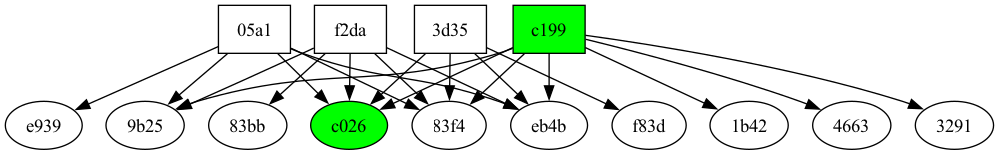
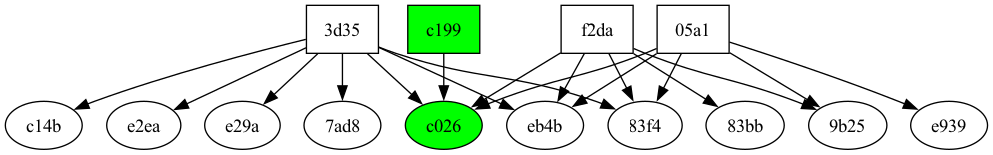
changes

diff --git a/SourceCode/PythonFiles/TerminalOutput/app.py b/SourceCode/PythonFiles/TerminalOutput/app.py
@@ -7,7 +7,8 @@ from plot_reader_time import user_reader_time
 from helper_functions import create_histogram
 from collections import Counter
 from plot_countries import plot_countries, plot_continents
-from also_likes import also_likes
+from also_likes import also_likes, generate_graph
+from task7 import run_gui
 
 def handle_task_2a(data, doc_uuid):
     plot_countries(data, doc_uuid)
@@ -42,8 +43,8 @@ def handle_task_4(data):
     print("=======================================\n\n")
 
 
-def handle_task_5d(data, doc_uuid, visitor_uuid = None, sorting_function=None):
-    likes = also_likes(data, doc_uuid, visitor_uuid = None, sorting_function=None)
+def handle_task_5d(data, doc_uuid, visitor_uuid):
+    likes = also_likes(data, doc_uuid, visitor_uuid, sorting_function=None)
     print("\n\n==============================================")
     print("=   Top 10 Documents also Read by The Visitors   =")
     print("==================================================")
@@ -54,11 +55,13 @@ def handle_task_5d(data, doc_uuid, visitor_uuid = None, sorting_function=None):
     print("==================================================\n\n")
 
 
-def handle_task_6():
+def handle_task_6(data, doc_uuid, visitor_uuid, sorting_function=None):
     print('Task 6')
+    generate_graph(data, doc_uuid, visitor_uuid, sorting_function)
 
-def handle_task_7():
+def handle_task_7(data):
     print('Task 7')
+    run_gui(handle_tasks, data)    
 
 def handle_file(file_name):
     new_file_name = None
@@ -80,7 +83,7 @@ def handle_file(file_name):
         return None
     
 
-def handle_tasks(task_id = None, data = None, user_uuid = None, doc_uuid = None):
+def handle_tasks(task_id = None, data = handle_file('issuu_cw2_train'), visitor_uuid = None, doc_uuid = None):
     if task_id == '2a':
         handle_task_2a(data, doc_uuid)
     elif task_id == '2b':
@@ -92,11 +95,11 @@ def handle_tasks(task_id = None, data = None, user_uuid = None, doc_uuid = None)
     elif task_id == '4':
         handle_task_4(data)
     elif task_id == '5d':
-        handle_task_5d(data, doc_uuid, visitor_uuid = None, sorting_function=None)
+        handle_task_5d(data, doc_uuid, visitor_uuid)
     elif task_id == '6':
-        handle_task_6()
+        handle_task_6(data, doc_uuid, visitor_uuid)
     elif task_id == '7':
-        handle_task_7()
+        handle_task_7(data)
     else:
         print('Invalid Task ID')
 

diff --git a/SourceCode/PythonFiles/TerminalOutput/also_likes.py b/SourceCode/PythonFiles/TerminalOutput/also_likes.py
@@ -38,6 +38,10 @@ def also_likes(data, doc_uuid, visitor_uuid = None, sorting_function=None):
     # Get the list of all unique readers who visited the document
     all_readers = set(get_readers_by_document(data, doc_uuid))
 
+    # If the visitor_uuid is provided, then remove the visitor_uuid to the list of readers
+    if visitor_uuid is not None:
+        all_readers.remove(visitor_uuid)
+
     # Initialize the dictionary to store the documents
     # The dictionary will have the document id as the key and the value will be a dictionary
     # The value dictionary will have two keys: count and readers 
@@ -65,7 +69,7 @@ def also_likes(data, doc_uuid, visitor_uuid = None, sorting_function=None):
     # Return the top 10 documents
     return sorted_docs[:10]
 
-def generate_graph(data, doc_uuid, visitor_uuid = None):
+def generate_graph(data, doc_uuid, visitor_uuid = None, sorting_function=None):
     # Create a Digraph object
     dot = Digraph(comment='Also Likes Graph')
 
@@ -78,9 +82,12 @@ def generate_graph(data, doc_uuid, visitor_uuid = None):
         dot.attr('node', shape='box')
         dot.node(mainVisitorId, mainVisitorId, style='filled', fillcolor='green')
         dot.attr('node', shape='ellipse')
+        dot.edge(mainVisitorId, mainDocId)
 
     # Get the list of "also likes" documents using the also_likes function
-    also_likes_docs = also_likes(data, doc_uuid)
+    if sorting_function is None:
+        sorting_function = lambda x: x[1]['count']
+    also_likes_docs = also_likes(data, doc_uuid, visitor_uuid, sorting_function)
     
     # For each "also likes" document, get the readers and create edges
     for doc, info in also_likes_docs:

diff --git a/SourceCode/PythonFiles/TerminalOutput/task7.py b/SourceCode/PythonFiles/TerminalOutput/task7.py
@@ -1,0 +1,42 @@
+# gui.py
+import tkinter as tk
+
+def run_gui(handle_tasks_callback, data):
+    root = tk.Tk()
+    root.title("Data Analysis Tool")
+
+    # Function to be called when the "Run Task" button is pressed
+    def on_run_task():
+        task_id = task_id_entry.get()
+        doc_uuid = doc_uuid_entry.get()
+        visitor_uuid = visitor_uuid_entry.get()
+        file_name = file_name_entry.get()
+
+        # Here we are assuming handle_tasks_callback is expecting four arguments
+        # You may need to adjust this depending on how handle_tasks is implemented
+        handle_tasks_callback(task_id, data, visitor_uuid, doc_uuid)
+
+
+    # Create and place the entry fields and labels
+    tk.Label(root, text="Task ID").pack()
+    task_id_entry = tk.Entry(root)
+    task_id_entry.pack()
+
+    tk.Label(root, text="Document UUID").pack()
+    doc_uuid_entry = tk.Entry(root)
+    doc_uuid_entry.pack()
+
+    tk.Label(root, text="Visitor UUID").pack()
+    visitor_uuid_entry = tk.Entry(root)
+    visitor_uuid_entry.pack()
+
+    tk.Label(root, text="File Name").pack()
+    file_name_entry = tk.Entry(root)
+    file_name_entry.pack()
+
+    # Create and place the "Run Task" button
+    run_button = tk.Button(root, text="Run Task", command=on_run_task)
+    run_button.pack()
+
+    # Start the GUI event loop
+    root.mainloop()
